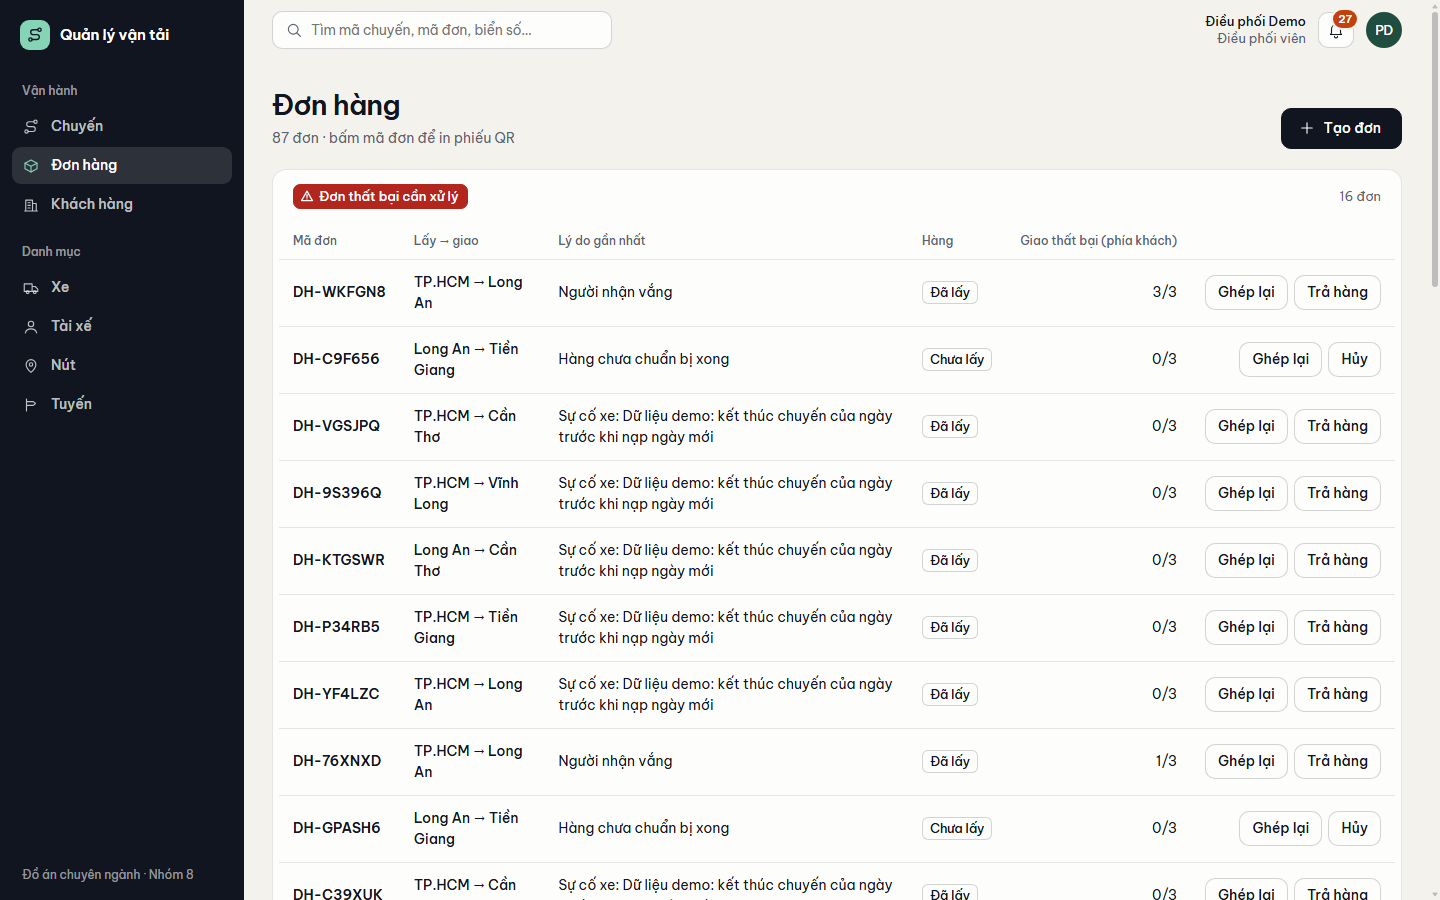
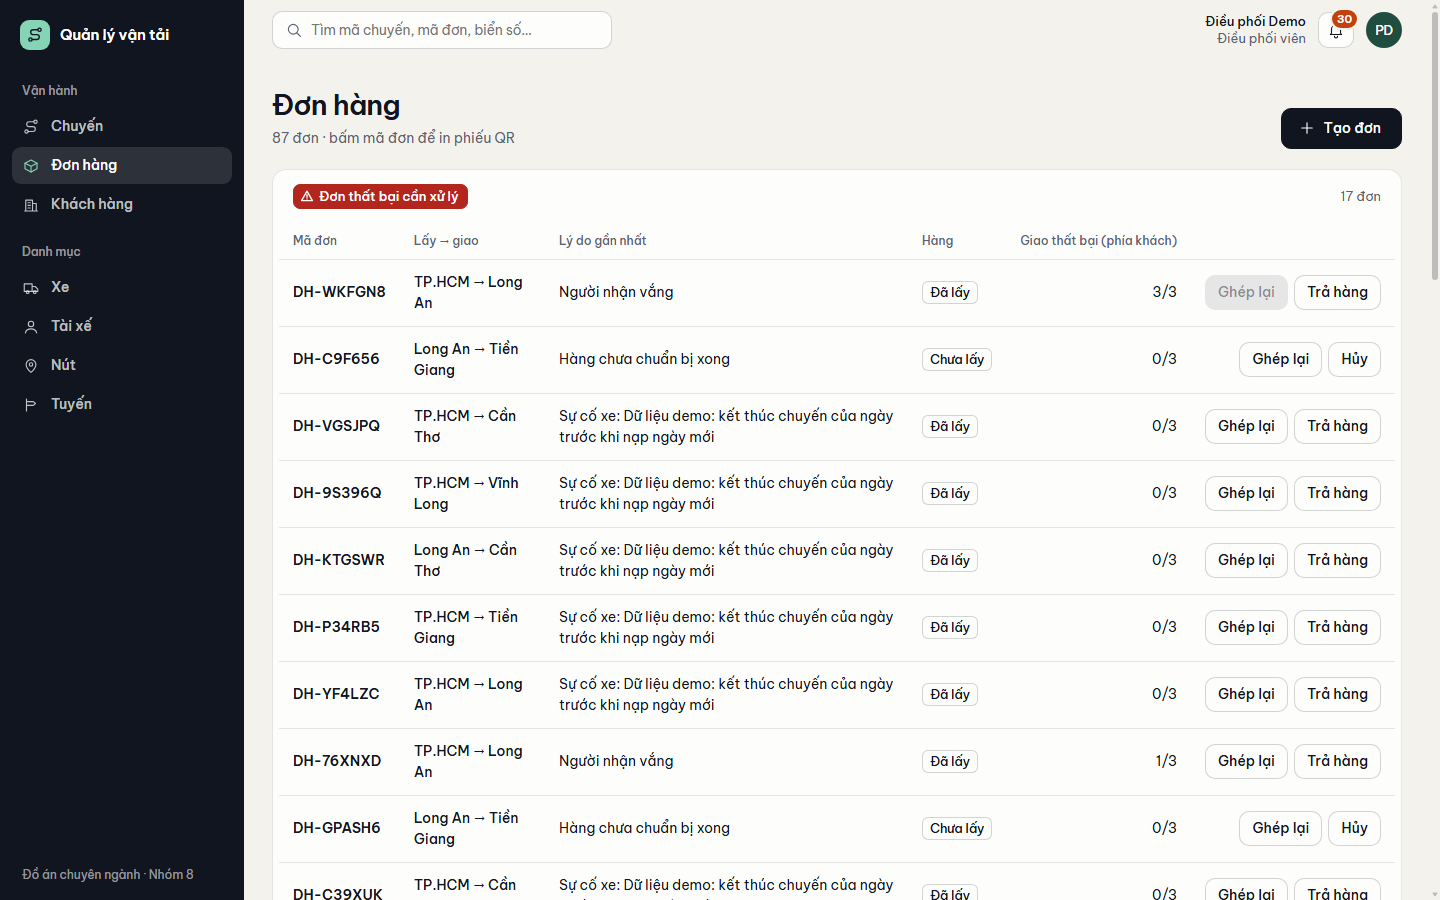
Bằng chứng v3 0cef9cd: UC-22 ca e, UC-26, UC-34 đạt sau khi Tài sửa
Chụp lại trên qlvc_demo: nút Ghép lại khóa xám hẳn, cột chênh lệch dầu tô màu,
Bảng lãi lỗ xem theo Chuyến / Xe / Tháng, chọn khoảng tháng, có dòng tổng.
Trang tra cứu hết viền tiêu đề khi bấm chuột.

diff --git a/docs/test-evidence/UC-26/du-lieu.md b/docs/test-evidence/UC-26/du-lieu.md
@@ -12,6 +12,19 @@
 | d | Đổi tháng sang 10/2026 | Số liệu, biểu đồ, bảng đổi theo tháng | `c-chon-thang-10.png` | Đạt: 0 chuyến đã quyết toán, "Tháng này chưa có chuyến nào được quyết toán" (dữ liệu demo chỉ có tháng 11) |
 | e | Xem theo Chuyến / Xe / Tháng | Chọn khoảng tháng và kiểu xem thì bảng đổi đúng | | **Không có**: chỉ có theo tháng (6 tháng tới tháng chọn) và theo xe (tháng chọn); không có kiểu xem theo chuyến, không chọn được khoảng tháng tùy ý |
 
-## Kết luận
+## Kết luận lần 1 (trước khi sửa)
 - Đạt: số liệu chỉ từ chuyến đã quyết toán, số chuyến chờ quyết toán, cảnh báo thiếu chi phí cố định, lãi âm tô màu, đổi tháng.
 - Lệch AC8: không có menu riêng, không xem theo chuyến, không chọn khoảng tháng, bảng không có dòng tổng. Cần Tài quyết: bổ sung giao diện, hoặc sửa AC8 theo cách làm ở Tổng quan (ghi lý do trong story).
+
+## Thử lại sau khi Tài sửa (18/11/2026, v3 `0cef9cd`)
+
+Tài bổ sung khối **"Bảng lãi lỗ"** cuối trang Tổng quan (không sửa AC). Ảnh chụp theo khung nhìn (1440 × 1700) ở khối này.
+
+| Ca | Làm gì | Ảnh | Kết quả |
+|---|---|---|---|
+| h | Từ 09/2026 đến 11/2026, xem **Chuyến** | `d-bang-lai-lo-theo-chuyen.png` | Đạt: 18 chuyến đã quyết toán (cột Chuyến, Ngày, Xe, Doanh thu, Chi phí, Lương, Lãi); dòng **Tổng (18 chuyến)** 52.201.000 / 19.295.000 / 9.300.000 / 23.606.000; CH-261118-01 lãi −450.000 tô màu; "9 chuyến chờ quyết toán, chưa vào bảng." |
+| i | Xem **Xe** | `e-bang-lai-lo-theo-xe.png` | Đạt: 5 xe, có cột Cố định; tổng khớp; 51D-305.55 −450.000 tô màu; thêm "Chưa nhập chi phí cố định: 51C-201.11 (11/2026), …" |
+| j | Xem **Tháng** | `f-bang-lai-lo-theo-thang.png` | Đạt: 09, 10, 11/2026 + dòng tổng, khớp với kiểu xem Chuyến, Xe |
+| k | Khoảng 10/2026 – 10/2026 (không có chuyến), xem Tháng rồi Chuyến | `g-khoang-thang-10-rong.png` | Đạt: bảng rỗng, "Tổng (0 chuyến)" toàn 0, không lỗi; đổi qua lại 3 cách xem không sập (không có lỗi trong console) |
+
+**Kết luận: AC8 đạt** (menu riêng không có, báo cáo nằm ở trang Tổng quan của Quản lý; các ý còn lại của AC8 đủ).

diff --git a/docs/test-evidence/UC-34/du-lieu.md b/docs/test-evidence/UC-34/du-lieu.md
@@ -10,4 +10,8 @@
 | b | Đổi tháng sang 10/2026 | Bảng đổi theo tháng | `b-hieu-suat-xe-thang-10.png` | Đạt: "Tháng này chưa có xe nào chạy xong chuyến" |
 | c | Xe có dầu thực tế lớn hơn tham khảo | Tô chênh lệch dầu dương (hao) | `a-hieu-suat-xe-thang-11.png` | **Không đạt**: không hiện cột chênh lệch (`chenh_lech_lit` API có trả), không tô màu. Ví dụ 51C-203.33 dầu 240 / tham khảo 69,12 lít, 51C-204.44 160 / 46,08 lít vẫn cùng màu chữ thường như mọi dòng |
 
-**Kết luận: AC7 chưa đạt** (thiếu tô chênh lệch dầu dương). Chọn tháng và bảng mỗi xe đã đạt.
+## Thử lại sau khi Tài sửa (18/11/2026, v3 `0cef9cd`)
+- Bảng có thêm cột **Chênh lệch (lít)**; số dương (hao dầu) tô màu cam như màu lỗ: 51C-201.11 +26,04, 51C-203.33 +170,88, 51C-204.44 +113,92, 51D-305.55 +0,04. Số âm, 0 giữ màu chữ thường (51C-202.22 −20). Ảnh `a-hieu-suat-xe-thang-11.png` đã thay bằng ảnh mới.
+- Góp ý nhỏ (không chặn AC): xe chưa có khoản dầu được duyệt vẫn hiện chênh lệch âm (51D-307.77 "0 / 62,64 chưa duyệt dầu", chênh lệch −62,64), dễ hiểu nhầm là tiết kiệm dầu; nên để "–" khi chưa duyệt dầu.
+
+**Kết luận: AC7 đạt.**

diff --git a/docs/test-evidence/UC-28/du-lieu.md b/docs/test-evidence/UC-28/du-lieu.md
@@ -17,3 +17,6 @@
 Góp ý nhỏ (không chặn AC): sau khi tra được, tiêu đề kết quả "Đã xếp chuyến xe" có khung viền đen dày (viền focus khi trang tự đưa focus vào tiêu đề), nhìn như ô nhập (`b-ket-qua-sdt-lay.png`).
 
 **Kết luận: AC7 đạt.**
+
+### Thử lại góp ý viền tiêu đề (18/11/2026, v3 `0cef9cd`)
+- Gõ mã, 4 số rồi **bấm chuột** nút Tra cứu: tiêu đề kết quả không còn viền đen (`b-ket-qua-sdt-lay.png` đã thay bằng ảnh mới). Dùng bàn phím (Tab, Enter) thì vẫn có viền focus, đúng cho người dùng bàn phím.
